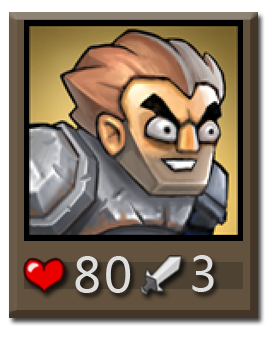
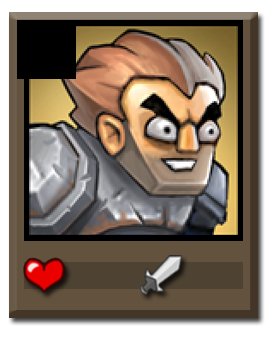
modify card area

Changed region(s): [[0.0573, 0.0588, 0.2867, 0.2353], [0.2581, 0.7353, 0.4875, 0.8824], [0.6882, 0.7353, 0.7742, 0.8824]]

diff --git a/xun/Card.js b/xun/Card.js
@@ -62,9 +62,10 @@ xun.Card.prototype.getLevel = function(){
 xun.Card.prototype.refresh = function(){
 	this.removeAllChildren();
 	
-	this.lifeLabel = new lime.Label(this.life).setSize(100, 100).setPosition(100, 10);
-	this.attackLabel = new lime.Label(this.attack).setSize(100, 100).setPosition(10, 10);
-	this.expLabel = new lime.Label(this.exp).setSize(100, 100).setPosition(20, 10);
+	this.lifeLabel = new lime.Label(this.life).setSize(100, 100).setPosition(100, 10).setAnchorPoint(0, 0);
+	this.attackLabel = new lime.Label(this.attack).setSize(100, 100).setPosition(50, 10).setAnchorPoint(0, 0);
+	this.expLabel = new lime.Label(this.exp).setSize(100, 100).setPosition(20, 10).setAnchorPoint(0, 0);
+	this.card = new lime.Sprite().setFill('assets/player01.png').setPosition(634, 0).setAnchorPoint(0, 0);
 	//this.otherCard = new lime.
 	
 	var spriteCreater = new xun.H_Spirite();
@@ -77,9 +78,10 @@ xun.Card.prototype.refresh = function(){
 		y : 50
 	};
 	//this.appendChild(spriteCreater.Create('card',position, scale));
+	this.appendChild(this.card);
 	this.appendChild(this.lifeLabel);
 	this.appendChild(this.attackLabel);
 	this.appendChild(this.expLabel);	
-	
-	this.setPosition(300, 740).setSize(1110, 200);
+		
+	this.setPosition(0, 1704).setSize(1110, 200).setAnchorPoint(0, 0).setFill('assets/mianban02.png');
 };
